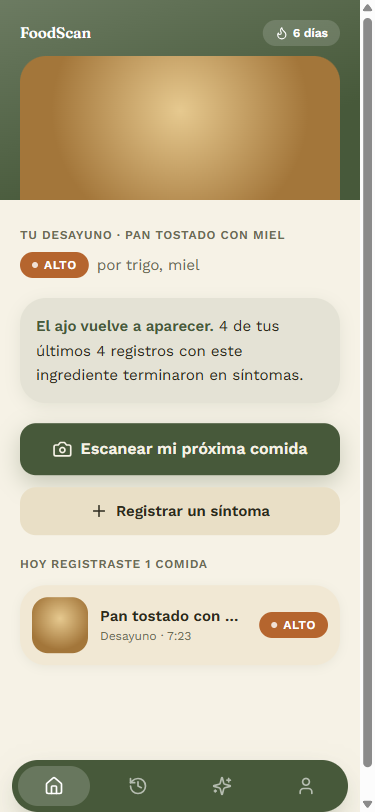
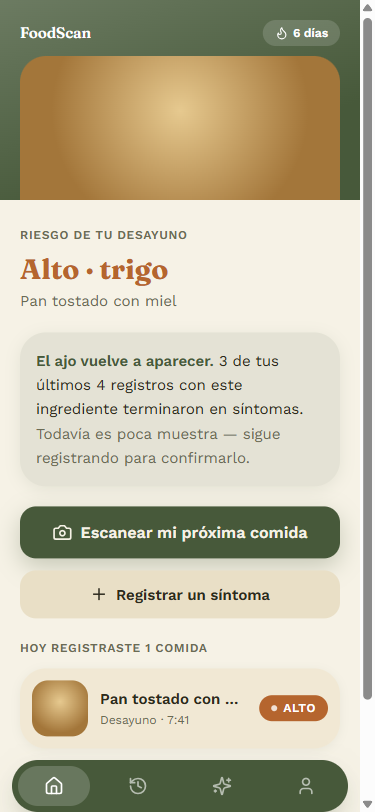
Corregir 5 defectos de la 1ra revision de Hoy + bug real de Hooks
Se agrego whileTap a los CTA, se restauro el titulo Fraunces del
resultado de riesgo (fiel al mockup aprobado, perdido en la primera
version), se implemento cierre real del bottom sheet (drag-to-dismiss +
boton X visible en vez de un handle decorativo sin funcion), se ajustaron
las fechas de los datos semilla para que la confianza del motor de
correlacion sea honesta (75% en vez de un 100% artificial por ventanas
de 48h encadenadas) y se agrego una frase de matiz sobre el tamano de
la muestra, y la racha ahora cuenta animada en vez de aparecer estatica.

De paso se encontro y corrigio un bug real: un hook de conteo se llamaba
despues de un return condicional, violando las Reglas de Hooks de React
(orden de hooks inconsistente entre renders, con error real en consola).

Relanzada la 2da revision del revisor-visual para Hoy.

diff --git a/app/(app)/hoy/page.tsx b/app/(app)/hoy/page.tsx
@@ -4,12 +4,11 @@
 // vista-previa-app.html (vista 3): foto de la última comida + mordisco + resultado
 // de riesgo + insight del Motor de Detonante Real.
 
-import { useEffect, useState } from 'react';
+import { useEffect, useRef, useState } from 'react';
 import { motion, useReducedMotion } from 'motion/react';
 import { Camera, Flame, Plus } from 'lucide-react';
 import { FotoComida } from '@/components/app/foto-comida';
 import { MordiscoAncho } from '@/components/app/mordisco-ancho';
-import { BadgeRiesgo } from '@/components/app/badge-riesgo';
 import { FilaComida } from '@/components/app/fila-comida';
 import { SheetNuevaComida } from '@/components/app/sheet-nueva-comida';
 import { SheetSintoma } from '@/components/app/sheet-sintoma';
@@ -21,6 +20,7 @@ import {
   calcularCorrelacion,
   agregarComida,
   agregarSintoma,
+  ETIQUETA_RIESGO,
   type Comida,
   type Perfil,
   type Correlacion,
@@ -32,6 +32,27 @@ function esHoy(iso: string) {
   return fecha.toDateString() === hoy.toDateString();
 }
 
+/** Cuenta desde el valor anterior al nuevo (baseline #2 — nunca un número estático). */
+function useContadorAnimado(valor: number, duracionMs = 600) {
+  const [mostrado, setMostrado] = useState(valor);
+  const anterior = useRef(0);
+  useEffect(() => {
+    const inicio = anterior.current;
+    const fin = valor;
+    const t0 = performance.now();
+    let raf: number;
+    const tick = (t: number) => {
+      const p = Math.min(1, (t - t0) / duracionMs);
+      setMostrado(Math.round(inicio + (fin - inicio) * p));
+      if (p < 1) raf = requestAnimationFrame(tick);
+      else anterior.current = fin;
+    };
+    raf = requestAnimationFrame(tick);
+    return () => cancelAnimationFrame(raf);
+  }, [valor, duracionMs]);
+  return mostrado;
+}
+
 export default function HoyPage() {
   const [comidas, setComidas] = useState<Comida[] | null>(null);
   const [perfil, setPerfil] = useState<Perfil | null>(null);
@@ -39,6 +60,7 @@ export default function HoyPage() {
   const [sheetComida, setSheetComida] = useState(false);
   const [sheetSintoma, setSheetSintoma] = useState(false);
   const reduce = useReducedMotion();
+  const rachaAnimada = useContadorAnimado(perfil?.rachaActual ?? 0);
 
   useEffect(() => {
     asegurarSemilla();
@@ -65,14 +87,15 @@ export default function HoyPage() {
 
   const ultima = comidas[0];
   const comidasHoy = comidas.filter((c) => esHoy(c.registradoEn));
+  const colorResultado = ultima.nivelRiesgo === 'bajo' ? 'var(--accent)' : 'var(--alerta)';
 
   return (
     <div className="flex flex-1 flex-col">
       <div className="relative h-[200px] shrink-0 overflow-hidden" style={{ background: 'linear-gradient(160deg, color-mix(in oklab, var(--accent) 78%, white 22%), var(--accent) 70%)' }}>
         <div className="flex items-center justify-between px-5 pt-5">
           <span className="text-[15px] font-semibold text-white [font-family:var(--font-display)]">FoodScan</span>
-          <span className="flex items-center gap-1 rounded-full bg-white/15 px-3 py-1 text-[12px] font-semibold text-white">
-            <Flame size={14} aria-hidden="true" /> {perfil.rachaActual} días
+          <span className="flex items-center gap-1 rounded-full bg-white/15 px-3 py-1 text-[12px] font-semibold tabular-nums text-white">
+            <Flame size={14} aria-hidden="true" /> {rachaAnimada} días
           </span>
         </div>
         <FotoComida colores={ultima.colorFoto} className="absolute inset-x-5 top-14 bottom-0 rounded-t-[var(--radius-card)]" />
@@ -81,15 +104,12 @@ export default function HoyPage() {
 
       <div className="flex flex-1 flex-col gap-5 px-5 pb-28 pt-1">
         <motion.div initial={{ opacity: 0, y: reduce ? 0 : 10 }} animate={{ opacity: 1, y: 0 }} transition={{ duration: 0.3 }}>
-          <p className="text-[12px] font-semibold uppercase tracking-[0.06em] text-[var(--text-tertiary)]">
-            Tu {ultima.nombreComida.toLowerCase()} · {ultima.descripcion}
-          </p>
-          <div className="mt-2 flex flex-wrap items-center gap-2">
-            <BadgeRiesgo nivel={ultima.nivelRiesgo} />
-            {ultima.ingredientesRiesgo.length > 0 && (
-              <span className="text-[15px] text-[var(--text-secondary)]">por {ultima.ingredientesRiesgo.join(', ')}</span>
-            )}
-          </div>
+          <p className="text-[12px] font-semibold uppercase tracking-[0.06em] text-[var(--text-tertiary)]">Riesgo de tu {ultima.nombreComida.toLowerCase()}</p>
+          <h2 className="mt-1 text-[28px] font-bold [font-family:var(--font-display)]" style={{ color: colorResultado }}>
+            {ETIQUETA_RIESGO[ultima.nivelRiesgo]}
+            {ultima.ingredientesRiesgo[0] ? ` · ${ultima.ingredientesRiesgo[0]}` : ''}
+          </h2>
+          <p className="text-[15px] text-[var(--text-secondary)]">{ultima.descripcion}</p>
         </motion.div>
 
         {correlacion && (
@@ -101,26 +121,29 @@ export default function HoyPage() {
           >
             <p className="text-[15px] leading-relaxed text-[var(--text-primary)]">
               <b className="font-semibold text-[var(--accent)]">El {correlacion.ingrediente} vuelve a aparecer.</b>{' '}
-              {correlacion.vecesConSintoma} de tus últimos {correlacion.vecesComido} registros con este ingrediente terminaron en síntomas.
+              {correlacion.vecesConSintoma} de tus últimos {correlacion.vecesComido} registros con este ingrediente terminaron en síntomas.{' '}
+              <span className="text-[var(--text-secondary)]">Todavía es poca muestra — sigue registrando para confirmarlo.</span>
             </p>
           </motion.div>
         )}
 
         <motion.div initial={{ opacity: 0, y: reduce ? 0 : 10 }} animate={{ opacity: 1, y: 0 }} transition={{ duration: 0.3, delay: 0.14 }} className="flex flex-col gap-3">
-          <button
+          <motion.button
             type="button"
+            whileTap={reduce ? undefined : { scale: 0.97 }}
             onClick={() => setSheetComida(true)}
             className="flex h-[52px] w-full items-center justify-center gap-2 rounded-[var(--radius-button)] bg-[var(--accent)] text-[16px] font-semibold text-[var(--bg)] shadow-[0_8px_24px_color-mix(in_oklab,var(--accent)_28%,transparent)] transition-opacity focus-visible:outline-none focus-visible:ring-2 focus-visible:ring-[var(--accent)] focus-visible:ring-offset-2 focus-visible:ring-offset-[var(--bg)]"
           >
             <Camera size={20} aria-hidden="true" /> Escanear mi próxima comida
-          </button>
-          <button
+          </motion.button>
+          <motion.button
             type="button"
+            whileTap={reduce ? undefined : { scale: 0.97 }}
             onClick={() => setSheetSintoma(true)}
             className="flex h-12 w-full items-center justify-center gap-2 rounded-[var(--radius-button)] bg-[var(--surface-2)] text-[15px] font-semibold text-[var(--text-primary)] focus-visible:outline-none focus-visible:ring-2 focus-visible:ring-[var(--accent)]"
           >
             <Plus size={18} aria-hidden="true" /> Registrar un síntoma
-          </button>
+          </motion.button>
         </motion.div>
 
         <div>

diff --git a/lib/foodscan-data.ts b/lib/foodscan-data.ts
@@ -85,13 +85,13 @@ function crearSemilla(ahora: number) {
   const hora = 3_600_000;
 
   const base: { id: string; nombreComida: string; descripcion: string; ingredientes: string[]; registradoEn: string; colorFoto: [string, string] }[] = [
-    { id: 'c1', nombreComida: 'Desayuno', descripcion: 'Avena con plátano', ingredientes: ['avena', 'plátano'], registradoEn: new Date(ahora - 5 * dia - 6 * hora).toISOString(), colorFoto: ['#dcd0a8', '#a9925f'] },
-    { id: 'c2', nombreComida: 'Almuerzo', descripcion: 'Pasta con ajo y tomate', ingredientes: ['pasta', 'ajo', 'tomate', 'aceite de oliva'], registradoEn: new Date(ahora - 5 * dia).toISOString(), colorFoto: ['#e2b98a', '#8f5a34'] },
-    { id: 'c3', nombreComida: 'Desayuno', descripcion: 'Huevo revuelto con espinaca', ingredientes: ['huevo', 'espinaca'], registradoEn: new Date(ahora - 4 * dia - 4 * hora).toISOString(), colorFoto: ['#e8d9a0', '#b89b4e'] },
-    { id: 'c4', nombreComida: 'Cena', descripcion: 'Pollo con cebolla salteada', ingredientes: ['pollo', 'cebolla', 'pimiento'], registradoEn: new Date(ahora - 4 * dia + 10 * hora).toISOString(), colorFoto: ['#d7a373', '#7d4f2a'] },
-    { id: 'c5', nombreComida: 'Almuerzo', descripcion: 'Ensalada con pollo y espinaca', ingredientes: ['pollo', 'espinaca', 'pepino'], registradoEn: new Date(ahora - 3 * dia - 4 * hora).toISOString(), colorFoto: ['#bcd0a0', '#5f7a45'] },
-    { id: 'c6', nombreComida: 'Cena', descripcion: 'Hummus de garbanzo con ajo', ingredientes: ['garbanzo', 'ajo', 'limón'], registradoEn: new Date(ahora - 3 * dia + 11 * hora).toISOString(), colorFoto: ['#d9c48a', '#8c752f'] },
-    { id: 'c7', nombreComida: 'Cena', descripcion: 'Sopa de miso con ajo', ingredientes: ['ajo', 'miso', 'fideos'], registradoEn: new Date(ahora - 2 * dia + 19 * hora).toISOString(), colorFoto: ['#c9ad7a', '#71592b'] },
+    { id: 'c1', nombreComida: 'Desayuno', descripcion: 'Avena con plátano', ingredientes: ['avena', 'plátano'], registradoEn: new Date(ahora - 10 * dia - 6 * hora).toISOString(), colorFoto: ['#dcd0a8', '#a9925f'] },
+    { id: 'c2', nombreComida: 'Almuerzo', descripcion: 'Pasta con ajo y tomate', ingredientes: ['pasta', 'ajo', 'tomate', 'aceite de oliva'], registradoEn: new Date(ahora - 10 * dia).toISOString(), colorFoto: ['#e2b98a', '#8f5a34'] },
+    { id: 'c3', nombreComida: 'Desayuno', descripcion: 'Huevo revuelto con espinaca', ingredientes: ['huevo', 'espinaca'], registradoEn: new Date(ahora - 7 * dia - 4 * hora).toISOString(), colorFoto: ['#e8d9a0', '#b89b4e'] },
+    { id: 'c4', nombreComida: 'Cena', descripcion: 'Pollo con cebolla salteada', ingredientes: ['pollo', 'cebolla', 'pimiento'], registradoEn: new Date(ahora - 7 * dia + 10 * hora).toISOString(), colorFoto: ['#d7a373', '#7d4f2a'] },
+    { id: 'c5', nombreComida: 'Almuerzo', descripcion: 'Ensalada con pollo y espinaca', ingredientes: ['pollo', 'espinaca', 'pepino'], registradoEn: new Date(ahora - 6 * dia - 4 * hora).toISOString(), colorFoto: ['#bcd0a0', '#5f7a45'] },
+    { id: 'c6', nombreComida: 'Cena', descripcion: 'Hummus de garbanzo con ajo', ingredientes: ['garbanzo', 'ajo', 'limón'], registradoEn: new Date(ahora - 6 * dia + 11 * hora).toISOString(), colorFoto: ['#d9c48a', '#8c752f'] },
+    { id: 'c7', nombreComida: 'Cena', descripcion: 'Sopa de miso con ajo', ingredientes: ['ajo', 'miso', 'fideos'], registradoEn: new Date(ahora - 5 * dia + 19 * hora).toISOString(), colorFoto: ['#c9ad7a', '#71592b'] },
     { id: 'c8', nombreComida: 'Almuerzo', descripcion: 'Pizza con ajo y masa de trigo', ingredientes: ['trigo', 'ajo', 'queso'], registradoEn: new Date(ahora - 1 * dia).toISOString(), colorFoto: ['#dba25c', '#7a4a1f'] },
     { id: 'c9', nombreComida: 'Desayuno', descripcion: 'Pan tostado con miel', ingredientes: ['trigo', 'miel'], registradoEn: new Date(ahora - 3 * hora).toISOString(), colorFoto: ['#e6c98f', '#a3763a'] },
   ];
@@ -102,8 +102,8 @@ function crearSemilla(ahora: number) {
   });
 
   const sintomas: Sintoma[] = [
-    { id: 's1', tipo: 'dolor', intensidad: 2, registradoEn: new Date(ahora - 5 * dia + 6 * hora).toISOString() },
-    { id: 's2', tipo: 'hinchazon', intensidad: 3, registradoEn: new Date(ahora - 3 * dia + 15 * hora).toISOString() },
+    { id: 's1', tipo: 'dolor', intensidad: 2, registradoEn: new Date(ahora - 10 * dia + 6 * hora).toISOString() },
+    { id: 's2', tipo: 'hinchazon', intensidad: 3, registradoEn: new Date(ahora - 6 * dia + 15 * hora).toISOString() },
     { id: 's3', tipo: 'urgencia', intensidad: 2, registradoEn: new Date(ahora - 1 * dia + 10 * hora).toISOString() },
   ];
 

diff --git a/components/app/bottom-sheet.tsx b/components/app/bottom-sheet.tsx
@@ -1,6 +1,7 @@
 'use client';
 
 import { AnimatePresence, motion, useReducedMotion } from 'motion/react';
+import { X } from 'lucide-react';
 import type { ReactNode } from 'react';
 
 export function BottomSheet({
@@ -37,10 +38,26 @@ export function BottomSheet({
             animate={{ y: 0, opacity: 1 }}
             exit={{ y: reduce ? 0 : '100%', opacity: reduce ? 0 : 1 }}
             transition={{ duration: reduce ? 0.15 : 0.32, ease: [0.16, 1, 0.3, 1] }}
+            drag={reduce ? false : 'y'}
+            dragConstraints={{ top: 0, bottom: 0 }}
+            dragElastic={{ top: 0, bottom: 0.4 }}
+            onDragEnd={(_, info) => {
+              if (info.offset.y > 80 || info.velocity.y > 500) onCerrar();
+            }}
             className="fixed inset-x-0 bottom-0 z-40 mx-auto max-h-[80dvh] w-full max-w-[500px] overflow-y-auto rounded-t-[var(--radius-card)] bg-[var(--bg)] p-5 pb-8 shadow-[0_-12px_32px_-12px_color-mix(in_oklab,var(--accent)_30%,transparent)]"
           >
             <div className="mx-auto mb-4 h-1 w-10 rounded-full bg-[color-mix(in_oklab,var(--text-tertiary)_30%,transparent)]" />
-            <h2 className="text-[20px] font-bold [font-family:var(--font-display)]">{titulo}</h2>
+            <div className="flex items-center justify-between">
+              <h2 className="text-[20px] font-bold [font-family:var(--font-display)]">{titulo}</h2>
+              <button
+                type="button"
+                onClick={onCerrar}
+                aria-label="Cerrar"
+                className="flex size-9 items-center justify-center rounded-full text-[var(--text-secondary)] focus-visible:outline-none focus-visible:ring-2 focus-visible:ring-[var(--accent)]"
+              >
+                <X size={20} aria-hidden="true" />
+              </button>
+            </div>
             <div className="mt-4">{children}</div>
           </motion.div>
         </>

diff --git a/docs/revisiones/hoy-veredicto.md b/docs/revisiones/hoy-veredicto.md
@@ -1,0 +1,15 @@
+# VEREDICTO revisor-visual — Hoy (M0)
+Fecha: 2026-09-26 00:00
+Screenshot: docs/revisiones/hoy-375.png
+Usabilidad: 25/40
+Craft: 12/20
+Copy (si vende): N-A
+Fidelidad (si hubo referencia): FIEL
+Veredicto: NO LISTA
+
+Top defectos:
+1. CTA "Escanear mi próxima comida" y "Registrar un síntoma" (app/(app)/hoy/page.tsx L110-123) sin whileTap/estado de respuesta al tacto → agregar `whileTap={{ scale: 0.97 }}` (falla ancla #2 del CTA héroe vivo).
+2. Resultado de riesgo de la comida (page.tsx L84-92) perdió el titular Fraunces 19px que el mockup aprobado usaba como héroe de la pantalla ("Medio · ajo", vista-previa-app.html L163) — quedó solo badge 12px + texto body de 15px, sin nivel jerárquico 1 → agregar un título en `--font-display` con el resultado antes/junto al badge.
+3. El handle del bottom sheet (components/app/bottom-sheet.tsx L42) es una barra decorativa sin lógica de swipe-to-dismiss ni botón de cierre visible → el usuario puede intentar arrastrar y no pasa nada (anti-patrón: elemento interactivo falso) → implementar drag real con Motion o reemplazar por un botón "Cerrar"/X visible.
+4. Tarjeta de insight (page.tsx L95-107) presenta "4 de tus últimos 4 registros" como 100% de confianza sin matiz de tamaño de muestra, en una app de salud digestiva → se siente un hallazgo demasiado categórico y poco creíble → agregar matiz ("con solo 4 registros, sigue confirmando" o un indicador de confianza n=4) en vez de presentarlo como certeza.
+5. Badge de racha "6 días" (page.tsx L74-76) es un número estático, sin conteo animado ni celebración de hito — dos de las 7 animaciones baseline obligatorias no aplicadas a esta pantalla → animar el conteo al montar y disparar celebración en hitos (ej. 7 días).
